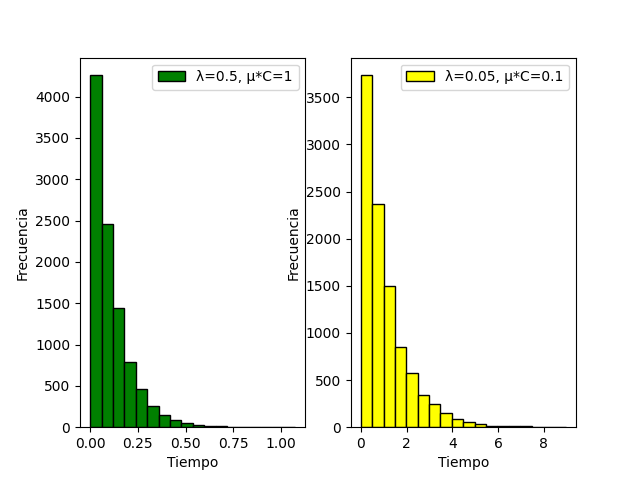
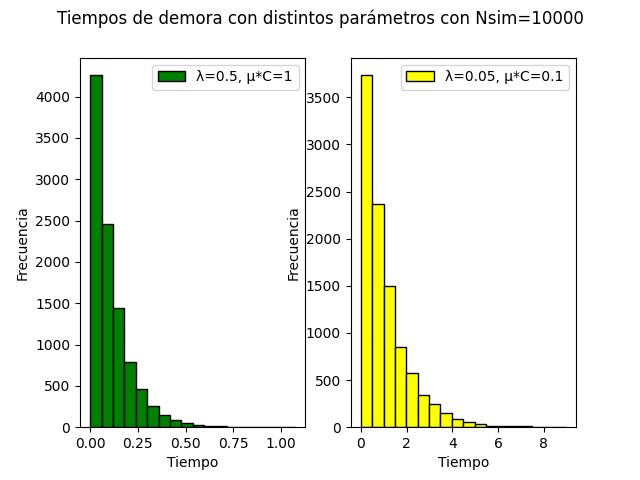
Cambiar tamaño fuente de titulo

Changed region(s): [[0.0938, 0.0, 0.9062, 0.0625]]

diff --git a/ej1.py b/ej1.py
@@ -363,7 +363,7 @@ ax2.set_xlabel("Tiempo")
 
 plt.legend(loc='best')
 plt.savefig(fname='sim1_sim2.png')
-fig.suptitle('Tiempos de demora con distintos parámetros con Nsim=10000', fontsize=16)
+fig.suptitle('Tiempos de demora con distintos parámetros con Nsim=10000')
 plt.show()
 
 fig = plt.figure()
